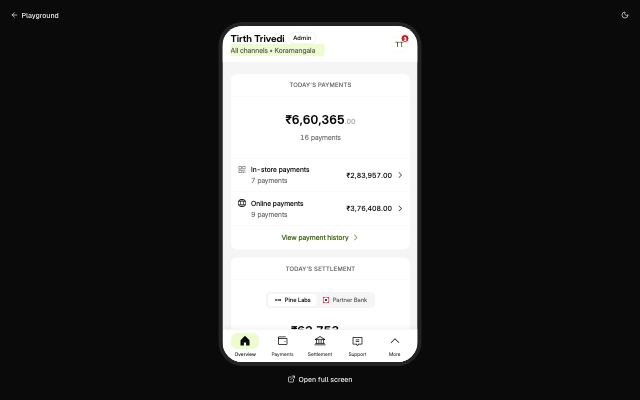
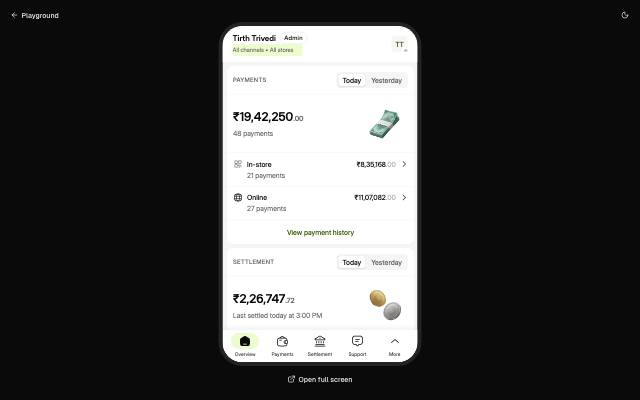
Playground: latest Pine One app via pine-one-app deployment, plus Login, Business profile, Invoices and VAS entries

diff --git a/playground/app/prototypes/pine-one-app-business-profile/page.tsx b/playground/app/prototypes/pine-one-app-business-profile/page.tsx
@@ -1,0 +1,6 @@
+import { PhoneFrame } from "@/components/embeds/phone-frame";
+import meta from "./metadata.json";
+
+export default function PineOneAppBusinessProfilePage() {
+  return <PhoneFrame src={meta.external.url} title={meta.title} />;
+}

diff --git a/playground/app/prototypes/pine-one-app-invoices/page.tsx b/playground/app/prototypes/pine-one-app-invoices/page.tsx
@@ -1,0 +1,6 @@
+import { PhoneFrame } from "@/components/embeds/phone-frame";
+import meta from "./metadata.json";
+
+export default function PineOneAppInvoicesPage() {
+  return <PhoneFrame src={meta.external.url} title={meta.title} />;
+}

diff --git a/playground/app/prototypes/pine-one-app-login/page.tsx b/playground/app/prototypes/pine-one-app-login/page.tsx
@@ -1,0 +1,6 @@
+import { PhoneFrame } from "@/components/embeds/phone-frame";
+import meta from "./metadata.json";
+
+export default function PineOneAppLoginPage() {
+  return <PhoneFrame src={meta.external.url} title={meta.title} />;
+}

diff --git a/playground/app/prototypes/pine-one-app-vas/page.tsx b/playground/app/prototypes/pine-one-app-vas/page.tsx
@@ -1,0 +1,6 @@
+import { PhoneFrame } from "@/components/embeds/phone-frame";
+import meta from "./metadata.json";
+
+export default function PineOneAppVasPage() {
+  return <PhoneFrame src={meta.external.url} title={meta.title} />;
+}

diff --git a/AGENTS.md b/AGENTS.md
@@ -11,7 +11,7 @@ Three independent projects. Each has its own dependencies, lockfile and package 
 | Folder | What | Package manager | Run | Deployed to (Vercel project) |
 |---|---|---|---|---|
 | `/` (root) | **Pine One web portal**: merchant dashboard, onboarding, sign-up | **pnpm** (`packageManager: pnpm@9`) | `pnpm install && pnpm dev` → :3000 | pine-one-user-journey-v2.vercel.app (`pine-one-user-journey-v2`) |
-| `mobile/` | **Pine One mobile app** (Expo / React Native) | **npm** (`.npmrc`: legacy-peer-deps) | `cd mobile && npm install && npx expo start` | pineone-mobile.vercel.app (`pineone-mobile`, static web build) |
+| `mobile/` | **Pine One mobile app** (Expo / React Native) | **npm** (`.npmrc`: legacy-peer-deps) | `cd mobile && npm install && npx expo start` | pine-one-app.vercel.app (`pine-one-app`, static web build; see `playground/app/prototypes/pine-one-mobile/HOW_IT_WORKS.md` for the deploy command) |
 | `playground/` | **Prototype playground**: gallery of prototypes and links to other apps | **npm** | `cd playground && npm install && npm run dev -- -p 3001` | pine-one-playground.vercel.app (`pine-one-playground`, password) |
 
 Other folders: `docs/` holds product and design docs (start at `docs/README.md`; module specs in `docs/design/`, flows in `docs/flows/`, decisions in `docs/decisions/decision-log.md`). `tests/` holds the web unit tests. `.storybook/` is the web Storybook.
@@ -101,6 +101,6 @@ Branch, make the change, run the checks, screenshot, and open a PR. If the chang
 
 ## 5. Where things are deployed and how to update them
 
-- Web: `vercel deploy --prod` from the root. Mobile: `vercel deploy --prod` from `mobile/` (it runs `expo export -p web`). Playground: `vercel deploy --prod` from `playground/` (it needs `PLAYGROUND_PASSWORD`, already set in Vercel).
+- Web: `vercel deploy --prod` from the root. Mobile: from `mobile/`, run the deploy command in `playground/app/prototypes/pine-one-mobile/HOW_IT_WORKS.md`. It targets `pine-one-app`; the folder's own `.vercel` link points at the older `pineone-mobile` project on another team. Vercel runs `expo export -p web` itself. Playground: `vercel deploy --prod` from `playground/` (it needs `PLAYGROUND_PASSWORD`, already set in Vercel).
 - Without `--prod` you get a **preview URL**. Use previews for experiments, and put the preview URL in the playground entry.
 - If the repo is connected to Vercel's Git integration, every pushed branch gets a preview automatically. Use that URL instead of running `vercel deploy`.

diff --git a/playground/app/prototypes/pine-one-mobile/HOW_IT_WORKS.md b/playground/app/prototypes/pine-one-mobile/HOW_IT_WORKS.md
@@ -1,11 +1,11 @@
 # Pine One app
 
 ## What It Does
-Shows the Pine One merchant app (Expo / React Native) inside the playground. Its source lives in `/mobile` at the repo root and is deployed on its own to `pineone-mobile.vercel.app`. This prototype embeds that live build.
+Shows the Pine One merchant app (Expo / React Native) inside the playground. Its source lives in `/mobile` at the repo root and is deployed on its own to `pine-one-app.vercel.app`. This prototype embeds that live build.
 
 ## Architecture
 ```
-/mobile (Expo Router) ──expo export -p web──► Vercel project "pineone-mobile"
+/mobile (Expo Router) ──expo export -p web──► Vercel project "pine-one-app"
                                                    │
 playground /prototypes/pine-one-mobile ──iframe────┘  (PhoneFrame: full screen on phones, 390×844 frame from sm)
 ```
@@ -38,3 +38,12 @@ pine-one-mobile/
 
 ## Updating
 Changes to the app are made in `/mobile` and deployed from there. The playground picks them up automatically. Regenerate this prototype's thumbnails after visible changes to the app's first screen.
+
+## Deployments
+The playground uses `pine-one-app` (Vercel team tirthtrivedi17-gmailcom's projects), deployed from `mobile/` on Nov 19, 2026. The older `pineone-mobile` project belongs to another Vercel team and still serves the October build. Redeploy with:
+
+```
+cd mobile && VERCEL_ORG_ID=team_sioXMAvOYHLCBQhiP6GAo4L2 VERCEL_PROJECT_ID=prj_DmoVXHj0kwle5Z8czc7DmnTV9liu npx vercel@latest deploy --prod --yes
+```
+
+The env vars keep `mobile/.vercel` pointing at the old project untouched.

diff --git a/playground/app/prototypes/pine-one-app-business-profile/HOW_IT_WORKS.md b/playground/app/prototypes/pine-one-app-business-profile/HOW_IT_WORKS.md
@@ -1,0 +1,39 @@
+# Pine One app: Business profile
+
+## What It Does
+Business details, KYC and documents, bank accounts, paymodes and registered details, with change requests and bank edit verification. It deep-links into the Pine One mobile app's live web build at `/business-profile`.
+
+## Architecture
+```
+/mobile (Expo Router) ──expo export -p web──► Vercel "pine-one-app" ──► https://pine-one-app.vercel.app/business-profile
+                                                                ▲
+playground /prototypes/pine-one-app-business-profile ──iframe (PhoneFrame)─────────────┘
+```
+
+## Frontend
+- Full screen on phones, a 390×844 frame from `sm` up, with an Open full screen link.
+- Source: `src/app/business-profile/*` (built to Figma 7961:21505).
+
+## Key Dependencies
+- `@/components/embeds/phone-frame`
+- `metadata.json → external.url`
+
+## Component Tree
+```
+page.tsx
+└── PhoneFrame (iframe)
+```
+
+## Error Handling
+- If the deployment is down, the frame shows the browser's error page.
+
+## File Structure
+```
+pine-one-app-business-profile/
+├── page.tsx
+├── metadata.json
+└── HOW_IT_WORKS.md
+```
+
+## Updating
+Changes are made in `/mobile`. Redeploy `pine-one-app` (see `pine-one-mobile/HOW_IT_WORKS.md`), then run `npm run thumbnails -- pine-one-app-business-profile`.

diff --git a/playground/app/prototypes/pine-one-app-vas/HOW_IT_WORKS.md b/playground/app/prototypes/pine-one-app-vas/HOW_IT_WORKS.md
@@ -1,0 +1,39 @@
+# Pine One app: Value Added Services
+
+## What It Does
+Enable and track services like EMI, Same-Day and On-Demand settlement, with request status on each card. It deep-links into the Pine One mobile app's live web build at `/value-added-services`.
+
+## Architecture
+```
+/mobile (Expo Router) ──expo export -p web──► Vercel "pine-one-app" ──► https://pine-one-app.vercel.app/value-added-services
+                                                                ▲
+playground /prototypes/pine-one-app-vas ──iframe (PhoneFrame)─────────────┘
+```
+
+## Frontend
+- Full screen on phones, a 390×844 frame from `sm` up, with an Open full screen link.
+- Source: `src/app/value-added-services.tsx`, data in `src/data/value-added-services.ts`.
+
+## Key Dependencies
+- `@/components/embeds/phone-frame`
+- `metadata.json → external.url`
+
+## Component Tree
+```
+page.tsx
+└── PhoneFrame (iframe)
+```
+
+## Error Handling
+- If the deployment is down, the frame shows the browser's error page.
+
+## File Structure
+```
+pine-one-app-vas/
+├── page.tsx
+├── metadata.json
+└── HOW_IT_WORKS.md
+```
+
+## Updating
+Changes are made in `/mobile`. Redeploy `pine-one-app` (see `pine-one-mobile/HOW_IT_WORKS.md`), then run `npm run thumbnails -- pine-one-app-vas`.

diff --git a/playground/app/prototypes/pine-one-app-invoices/HOW_IT_WORKS.md b/playground/app/prototypes/pine-one-app-invoices/HOW_IT_WORKS.md
@@ -1,0 +1,39 @@
+# Pine One app: Invoices
+
+## What It Does
+Pending dues and all invoices: pending amount, pay dues, past payments by day, invoice downloads. It deep-links into the Pine One mobile app's live web build at `/pending-dues`.
+
+## Architecture
+```
+/mobile (Expo Router) ──expo export -p web──► Vercel "pine-one-app" ──► https://pine-one-app.vercel.app/pending-dues
+                                                                ▲
+playground /prototypes/pine-one-app-invoices ──iframe (PhoneFrame)─────────────┘
+```
+
+## Frontend
+- Full screen on phones, a 390×844 frame from `sm` up, with an Open full screen link.
+- Source: `src/app/pending-dues` (Figma 7804:118368).
+
+## Key Dependencies
+- `@/components/embeds/phone-frame`
+- `metadata.json → external.url`
+
+## Component Tree
+```
+page.tsx
+└── PhoneFrame (iframe)
+```
+
+## Error Handling
+- If the deployment is down, the frame shows the browser's error page.
+
+## File Structure
+```
+pine-one-app-invoices/
+├── page.tsx
+├── metadata.json
+└── HOW_IT_WORKS.md
+```
+
+## Updating
+Changes are made in `/mobile`. Redeploy `pine-one-app` (see `pine-one-mobile/HOW_IT_WORKS.md`), then run `npm run thumbnails -- pine-one-app-invoices`.

diff --git a/playground/app/prototypes/pine-one-app-login/HOW_IT_WORKS.md b/playground/app/prototypes/pine-one-app-login/HOW_IT_WORKS.md
@@ -1,0 +1,39 @@
+# Pine One app: Login
+
+## What It Does
+Sign in to the merchant app. It deep-links into the Pine One mobile app's live web build at `/login`.
+
+## Architecture
+```
+/mobile (Expo Router) ──expo export -p web──► Vercel "pine-one-app" ──► https://pine-one-app.vercel.app/login
+                                                                ▲
+playground /prototypes/pine-one-app-login ──iframe (PhoneFrame)─────────────┘
+```
+
+## Frontend
+- Full screen on phones, a 390×844 frame from `sm` up, with an Open full screen link.
+- Source: `src/app/login.tsx`.
+
+## Key Dependencies
+- `@/components/embeds/phone-frame`
+- `metadata.json → external.url`
+
+## Component Tree
+```
+page.tsx
+└── PhoneFrame (iframe)
+```
+
+## Error Handling
+- If the deployment is down, the frame shows the browser's error page.
+
+## File Structure
+```
+pine-one-app-login/
+├── page.tsx
+├── metadata.json
+└── HOW_IT_WORKS.md
+```
+
+## Updating
+Changes are made in `/mobile`. Redeploy `pine-one-app` (see `pine-one-mobile/HOW_IT_WORKS.md`), then run `npm run thumbnails -- pine-one-app-login`.

diff --git a/README.md b/README.md
@@ -5,7 +5,7 @@ Three projects live in this repo. Each one installs and runs on its own.
 | Folder | What | Stack | Package manager | Live |
 |---|---|---|---|---|
 | `/` (root) | **Web portal**: Pine One Omni merchant dashboard | Next.js 16, React 19, Tailwind, shadcn/ui | pnpm | pine-one-user-journey-v2.vercel.app |
-| `mobile/` | **Mobile app**: Pine One merchant app | Expo 57 (React Native), Expo Router | npm | pineone-mobile.vercel.app (web build) |
+| `mobile/` | **Mobile app**: Pine One merchant app | Expo 57 (React Native), Expo Router | npm | pine-one-app.vercel.app (web build) |
 | `playground/` | **Prototype playground**: gallery of small prototypes | Next.js 16, shadcn/ui | npm | pine-one-playground.vercel.app (password) |
 
 Product and design docs are in `docs/` (start at `docs/README.md`).

diff --git a/mobile/README.md b/mobile/README.md
@@ -15,6 +15,6 @@ npx expo start       # w = browser, scan QR = Expo Go, i/a = simulators
 
 Checks before a PR: `npm run lint` and `npx tsc --noEmit`.
 
-Deployed as a static web build (`npx expo export -p web`, see `vercel.json`) to the Vercel project `pineone-mobile`.
+Deployed as a static web build (`npx expo export -p web`, see `vercel.json`) to the Vercel project `pine-one-app` (https://pine-one-app.vercel.app). The deploy command is in `playground/app/prototypes/pine-one-mobile/HOW_IT_WORKS.md`.
 
 Don't run `npm run reset-project`. It's leftover Expo starter tooling and moves the whole app into `app-example/`.
